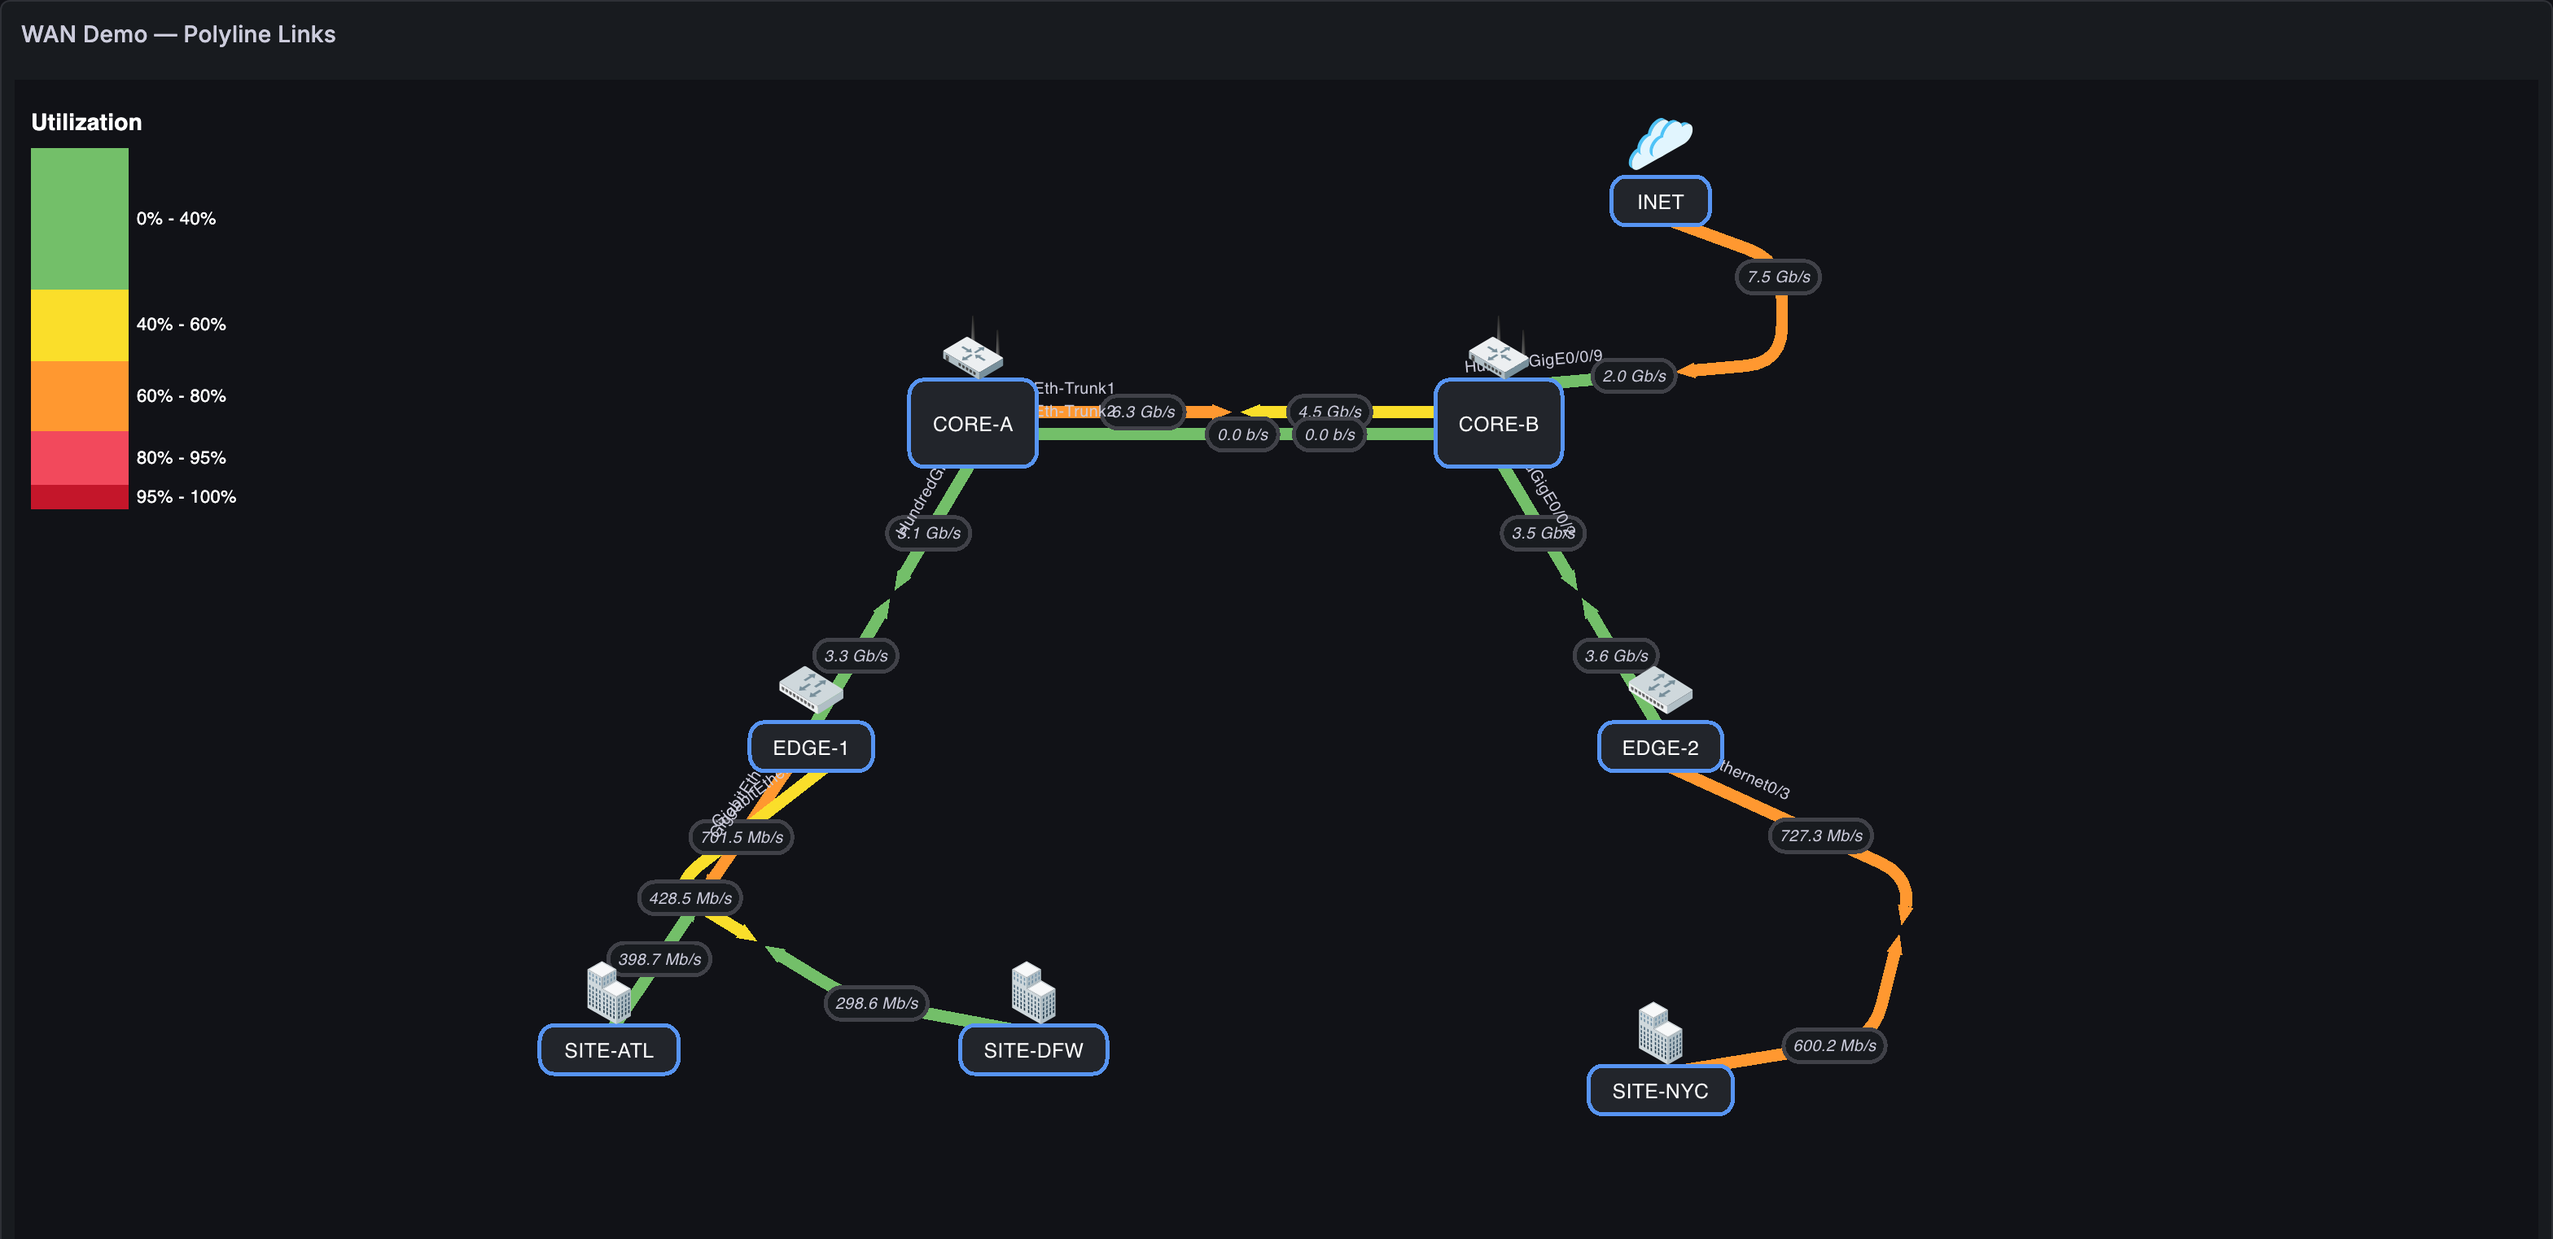
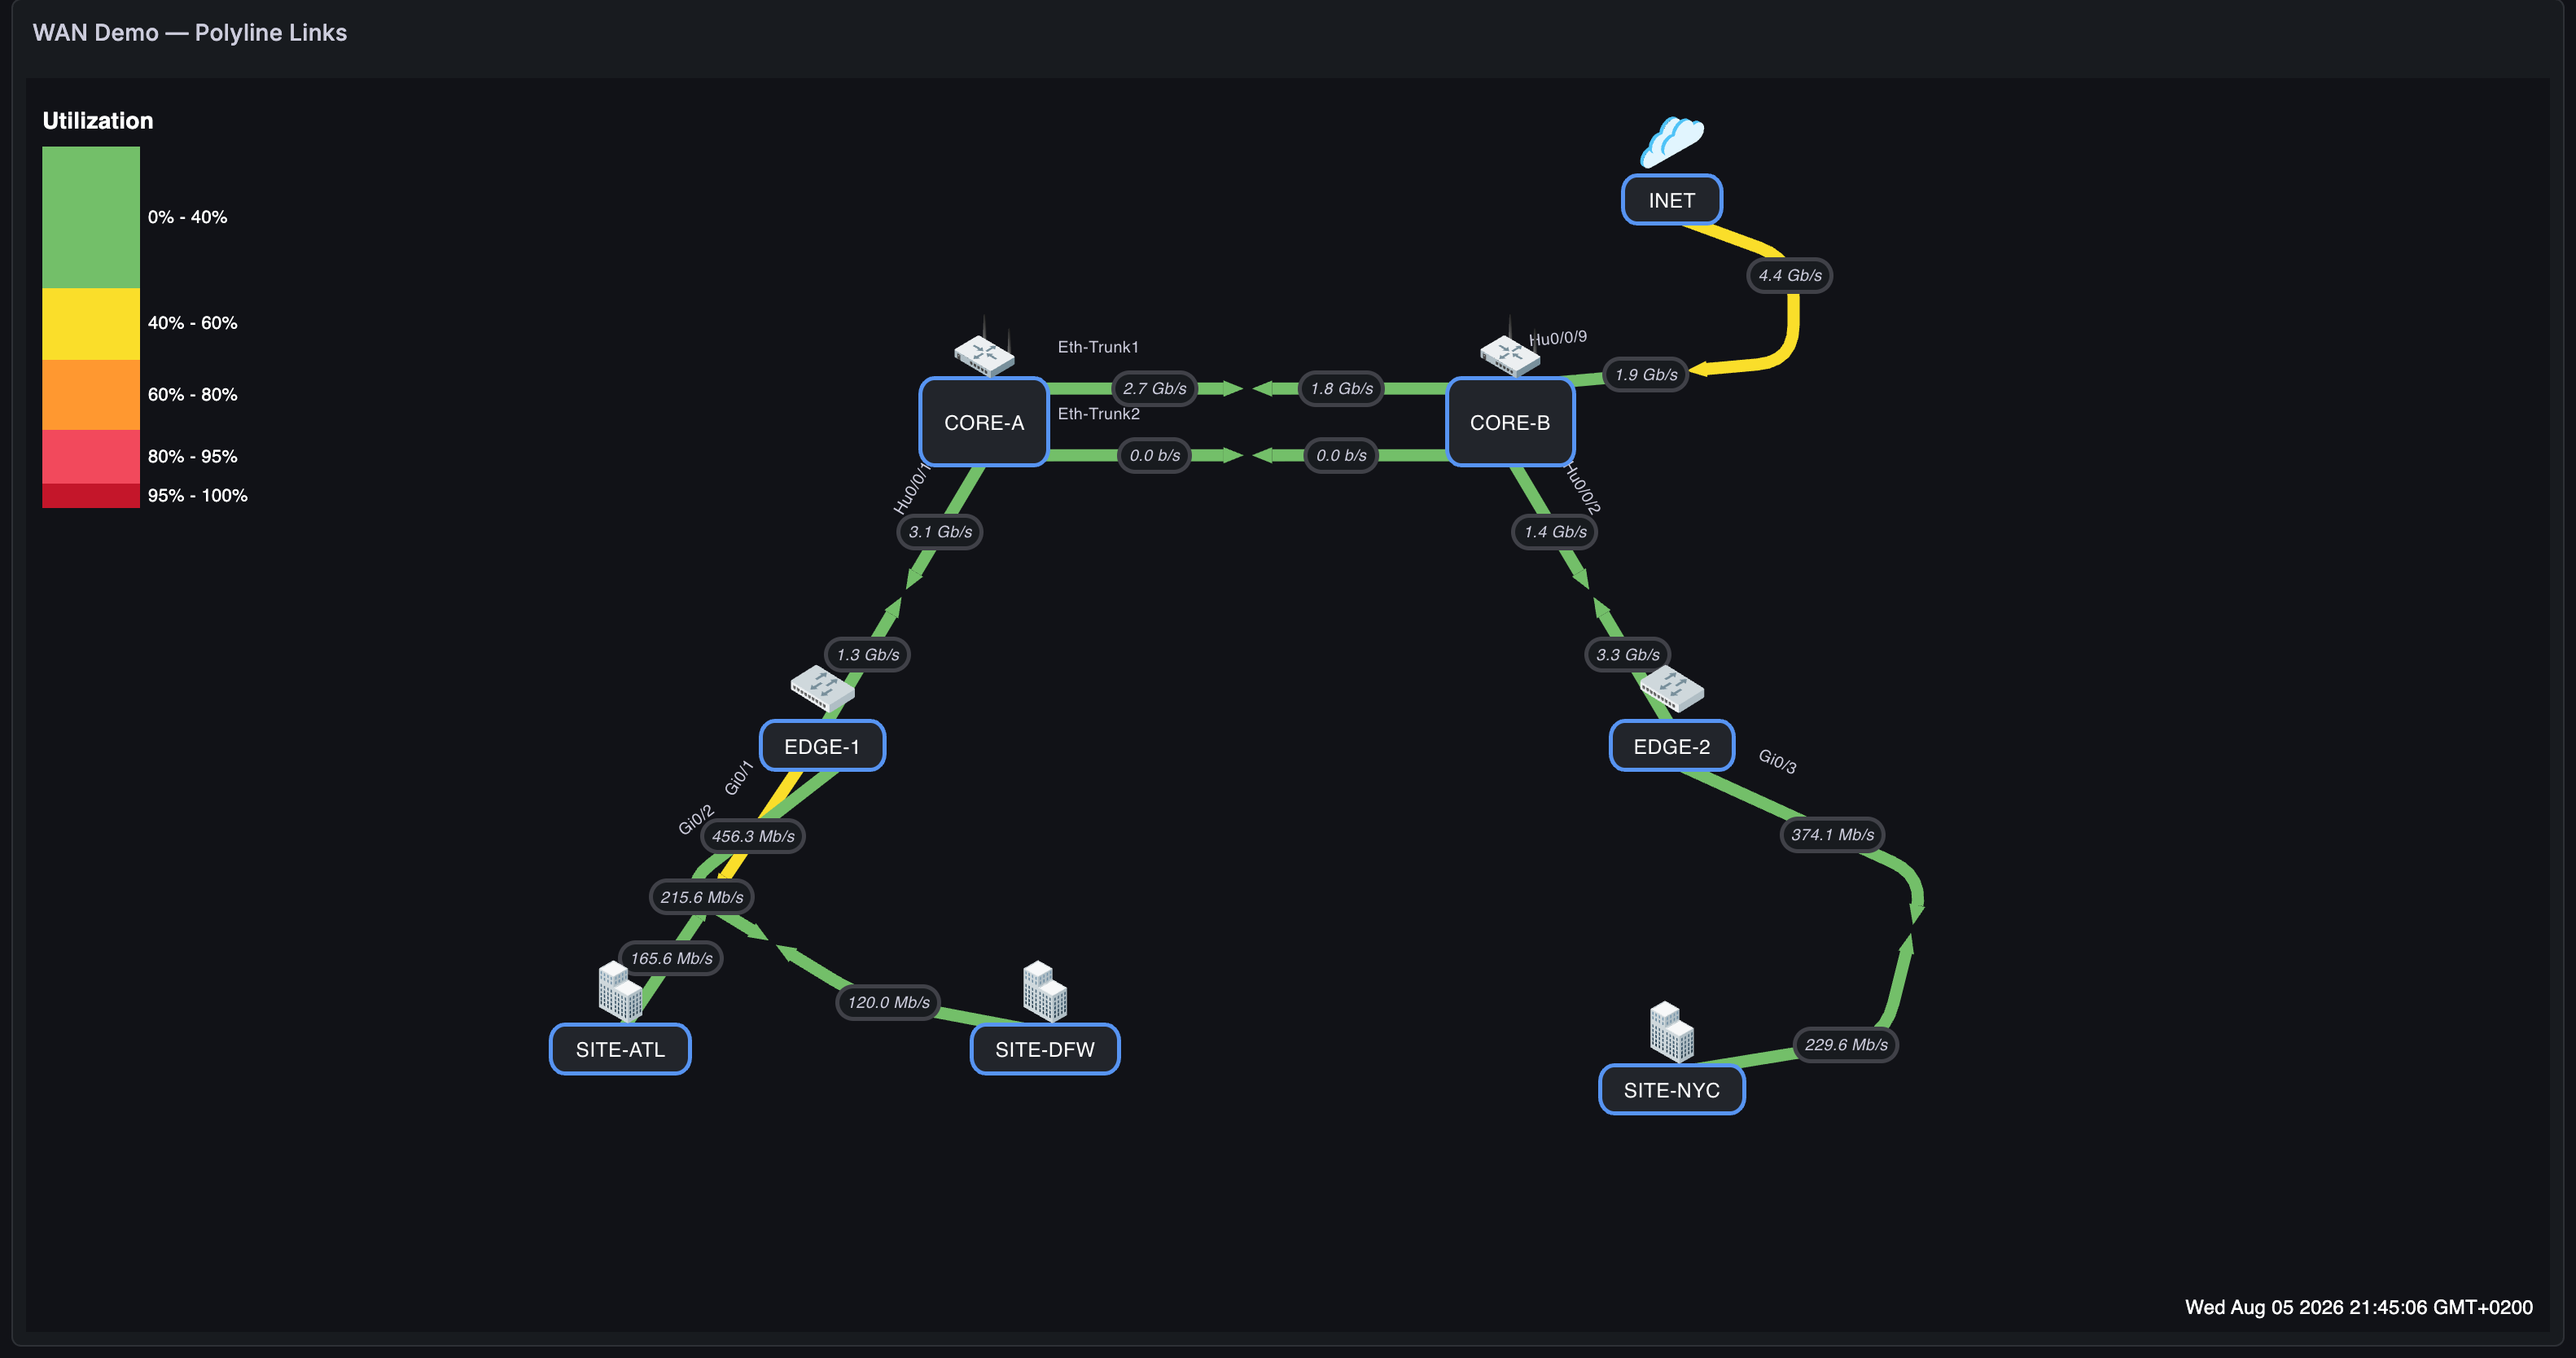
fix(demo): unstack the polyline demo's links and port labels (#336)
The polyline demo map was unreadable where it mattered most, and the docs
screenshot captured from it showed the same mess: the two CORE-A/CORE-B trunks
were drawn on top of each other, "Eth-Trunk1"/"Eth-Trunk2" overprinted the
value label between them, "HundredGigE0/0/1" ran through the "4.1 Gb/s" pill,
"Hu.../GigE0/0/9" collided at CORE-B, and EDGE-1's two downlinks stacked their
port labels into one illegible smear.

Three causes, all in the generator:

- The parallel core trunks inherited no Link Offset from the base map, so
  nothing separated them. They now use -11/+11 — which is also a better demo,
  since Link Offset composes with everything else on the map.
- Port labels used full interface names ("HundredGigE0/0/1",
  "GigabitEthernet0/1"), wider at this map scale than the gap between a node
  and its first value label. They now use the abbreviations network engineers
  actually write (Hu0/0/1, Gi0/1) — shorter without being less real.
- No port label used the per-side placement controls from #309. Each now sets
  portLabelDistance (perpendicular, clearing the value-label pill) and
  portLabelOffset (along the axis, clearing the node icon).

The offsets are per-link rather than one global pair, because a single value
cannot work: port labels rotate to follow their line, so two links leaving one
node at similar steep angles land their labels in the same spot. EDGE-1's pair
is separated by sliding one much further along its own path than the other, and
[…]

diff --git a/tests/polyline.spec.ts b/tests/polyline.spec.ts
@@ -40,6 +40,43 @@ const drag = async (page: Page, from: { x: number; y: number }, to: { x: number;
   return to;
 };
 
+// Every rendered vertex of the link, in SVG user units (= panel coordinates),
+// so geometry can be compared without any screen-space conversion.
+const drawnPoints = async (panel: Locator) => {
+  const polys = panel.locator('g[data-testid="link"] polyline');
+  const count = await polys.count();
+  const out: Array<{ x: number; y: number }> = [];
+  for (let i = 0; i < count; i++) {
+    const attr = (await polys.nth(i).getAttribute('points')) ?? '';
+    for (const pt of attr.trim().split(/\s+/).filter(Boolean)) {
+      const [x, y] = pt.split(',').map(Number);
+      if (Number.isFinite(x) && Number.isFinite(y)) {
+        out.push({ x, y });
+      }
+    }
+  }
+  return out;
+};
+
+// The handle's own centre, also in SVG user units.
+const handleCoords = async (handle: Locator) => ({
+  x: Number(await handle.getAttribute('cx')),
+  y: Number(await handle.getAttribute('cy')),
+});
+
+// Set Link Offset through the link form (the precision channel).
+const setLinkOffset = async (page: Page, value: string) => {
+  const picker = page.locator('#nwm-link-picker');
+  await picker.click({ force: true });
+  await picker.press('ArrowDown');
+  await picker.press('Enter');
+  const input = page.locator('input[name="linkOffset"]');
+  await input.scrollIntoViewIfNeeded();
+  await input.fill(value);
+  await input.blur();
+  await page.waitForTimeout(400);
+};
+
 // Right-click the default (straight, horizontal) link at its midpoint to
 // insert a waypoint there — the canvas creation gesture.
 const addWaypointOnCanvas = async (page: Page, panel: Locator) => {
@@ -155,6 +192,83 @@ test.describe('Polyline waypoints', () => {
     const c = await center(handle);
     await page.mouse.click(c.x, c.y, { button: 'right' });
     await expect(panel.getByTestId('waypoint-handle')).toHaveCount(0);
+  });
+
+  // #336: Link Offset combines with waypoints by TRANSLATING the whole drawn
+  // path. Waypoints stay stored unshifted and only the drawing moves, so the
+  // handles have to be rendered at `waypoint + offset` while every value
+  // written back stays in stored space. jsdom cannot prove the shifted handle
+  // is actually grabbable, or that repeated real drags do not walk the link
+  // sideways by the offset each time — that needs a browser.
+  test('Link Offset translates the drawn path rigidly and the handle moves with it', async ({
+    panelEditPage,
+    page,
+  }) => {
+    await setupPanel(panelEditPage, page);
+    const panel = panelEditPage.panel.locator;
+    const handle = await addWaypointOnCanvas(page, panel);
+
+    // Move the bend clear of the arrow-junction gap so it is a rendered vertex.
+    const start = await center(handle);
+    await drag(page, start, { x: start.x - 70, y: start.y - 60 });
+
+    const before = await drawnPoints(panel);
+    const handleBefore = await handleCoords(handle);
+    expect(before.length).toBeGreaterThan(2);
+
+    const OFFSET = 40;
+    await setLinkOffset(page, String(OFFSET));
+
+    const after = await drawnPoints(panel);
+    const handleAfter = await handleCoords(handle);
+
+    // The default link is horizontal, so the chord normal is the y axis: the
+    // whole path shifts by exactly the offset, and by nothing in x.
+    expect(after).toHaveLength(before.length);
+    expect(Math.abs(handleAfter.x - handleBefore.x)).toBeLessThan(0.5);
+    expect(Math.abs(Math.abs(handleAfter.y - handleBefore.y) - OFFSET)).toBeLessThan(0.5);
+
+    // Rigid translation: every rendered vertex moved by the SAME delta, and
+    // that delta is the one the handle moved by. This is the isometry
+    // guarantee — no vertex was distorted, stretched, or folded.
+    const dy = handleAfter.y - handleBefore.y;
+    after.forEach((p, i) => {
+      expect(Math.abs(p.x - before[i].x)).toBeLessThan(0.5);
+      expect(Math.abs(p.y - before[i].y - dy)).toBeLessThan(0.5);
+    });
+  });
+
+  test('dragging an offset link is cursor-locked and never creeps by the offset', async ({
+    panelEditPage,
+    page,
+  }) => {
+    await setupPanel(panelEditPage, page);
+    const panel = panelEditPage.panel.locator;
+    const handle = await addWaypointOnCanvas(page, panel);
+    const seed = await center(handle);
+    await drag(page, seed, { x: seed.x - 70, y: seed.y - 60 });
+    await setLinkOffset(page, '40');
+
+    // The handle now draws 40px off its stored coordinate. Grabbing it at that
+    // DRAWN position must work — hit testing follows the visual, not the store.
+    const target = { x: seed.x + 40, y: seed.y - 90 };
+    await drag(page, await center(handle), target);
+    const landed = await center(handle);
+    expect(Math.abs(landed.x - target.x)).toBeLessThan(5);
+    expect(Math.abs(landed.y - target.y)).toBeLessThan(5);
+
+    // Zero-distance grab/release cycles. If a commit ever wrote back a DRAWN
+    // coordinate, each cycle would add the offset again and walk the link
+    // 40px sideways; the position must be bit-stable instead.
+    const settled = await handleCoords(handle);
+    for (let i = 0; i < 3; i++) {
+      const c = await center(handle);
+      await drag(page, c, c, 2);
+      await page.waitForTimeout(150);
+      const now = await handleCoords(handle);
+      expect(Math.abs(now.x - settled.x)).toBeLessThan(1);
+      expect(Math.abs(now.y - settled.y)).toBeLessThan(1);
+    }
   });
 
   test('waypoints persist across dashboard save and reload', async ({ panelEditPage, page }) => {

diff --git a/testing/scripts/generate-polyline-demo.py b/testing/scripts/generate-polyline-demo.py
@@ -61,6 +61,48 @@ MEET = {
     "link-core-b<->inet": 35,
 }
 
+# The parallel core trunks inherit no Link Offset from the base map, so they
+# were drawn on top of each other with all four labels fighting for the same
+# strip of canvas. Spread them (#336: Link Offset now composes with everything
+# else on the map, waypoints included).
+CORE_OFFSETS = {
+    "link-core-a<->core-b/1": -11,
+    "link-core-a<->core-b/2": 11,
+}
+
+# Interface names as network engineers actually abbreviate them. The full
+# forms ("HundredGigE0/0/1", "GigabitEthernet0/1") are wider than the gap
+# between a node and its first value label at this map scale, so they used to
+# overprint both the value labels and each other.
+PORT_ABBREV = {
+    "HundredGigE": "Hu",
+    "GigabitEthernet": "Gi",
+}
+
+# Lift every port label clear of the line it names: `distance` pushes it
+# perpendicular to the link (clear of the value-label pill sitting on the
+# line), `offset` slides it along the axis toward the midpoint (clear of the
+# node icon, and of the other links leaving the same node). Both are the
+# per-side controls from #309 — the demo should show them in use.
+#
+# Per-link (offset%, distance px), because a single global pair cannot work:
+# port labels rotate to follow their line, so two links leaving one node at
+# similar steep angles put their labels in the same place. The fix is to slide
+# each one a different distance ALONG its own path. CORE-A/CORE-B's downlinks
+# also need a bigger offset than most — they leave almost vertically, straight
+# through the node icon.
+PORT_LABEL_DEFAULT = (7, 9)
+PORT_LABEL_TUNING = {
+    "link-core-a<->edge-1": (22, 11),
+    "link-core-b<->edge-2": (22, 11),
+    # The two links off EDGE-1 leave at similar angles — separate their labels
+    # by pushing one much further along its own path than the other.
+    "link-edge-1<->site-atl": (10, 10),
+    "link-edge-1<->site-dfw": (34, 10),
+    "link-edge-2<->site-nyc": (12, 10),
+    "link-core-b<->inet": (10, 10),
+}
+
 # The EDGE-1 area stacks several value labels; let the collision solver spread
 # them along their (now path-aware) links so the demo reads cleanly.
 wm["settings"]["link"]["labelCollision"] = True
@@ -76,8 +118,21 @@ for link in wm["links"]:
         applied += 1
     if link["id"] in MEET:
         link["arrowMeetPercent"] = MEET[link["id"]]
+    if link["id"] in CORE_OFFSETS:
+        link["linkOffset"] = CORE_OFFSETS[link["id"]]
+    for side in ("A", "Z"):
+        port = link["sides"][side].get("portLabel")
+        if not port:
+            continue
+        for long, short in PORT_ABBREV.items():
+            port = port.replace(long, short)
+        offset, distance = PORT_LABEL_TUNING.get(link["id"], PORT_LABEL_DEFAULT)
+        link["sides"][side]["portLabel"] = port
+        link["sides"][side]["portLabelOffset"] = offset
+        link["sides"][side]["portLabelDistance"] = distance
 
 assert applied == len(WAYPOINTS), f"only matched {applied} of {len(WAYPOINTS)} links"
+assert sum(1 for l in wm["links"] if l.get("linkOffset")) == len(CORE_OFFSETS)
 
 out = "grafana/dashboards/wm-polyline-links.json"
 json.dump(d, open(out, "w"), indent=2)
